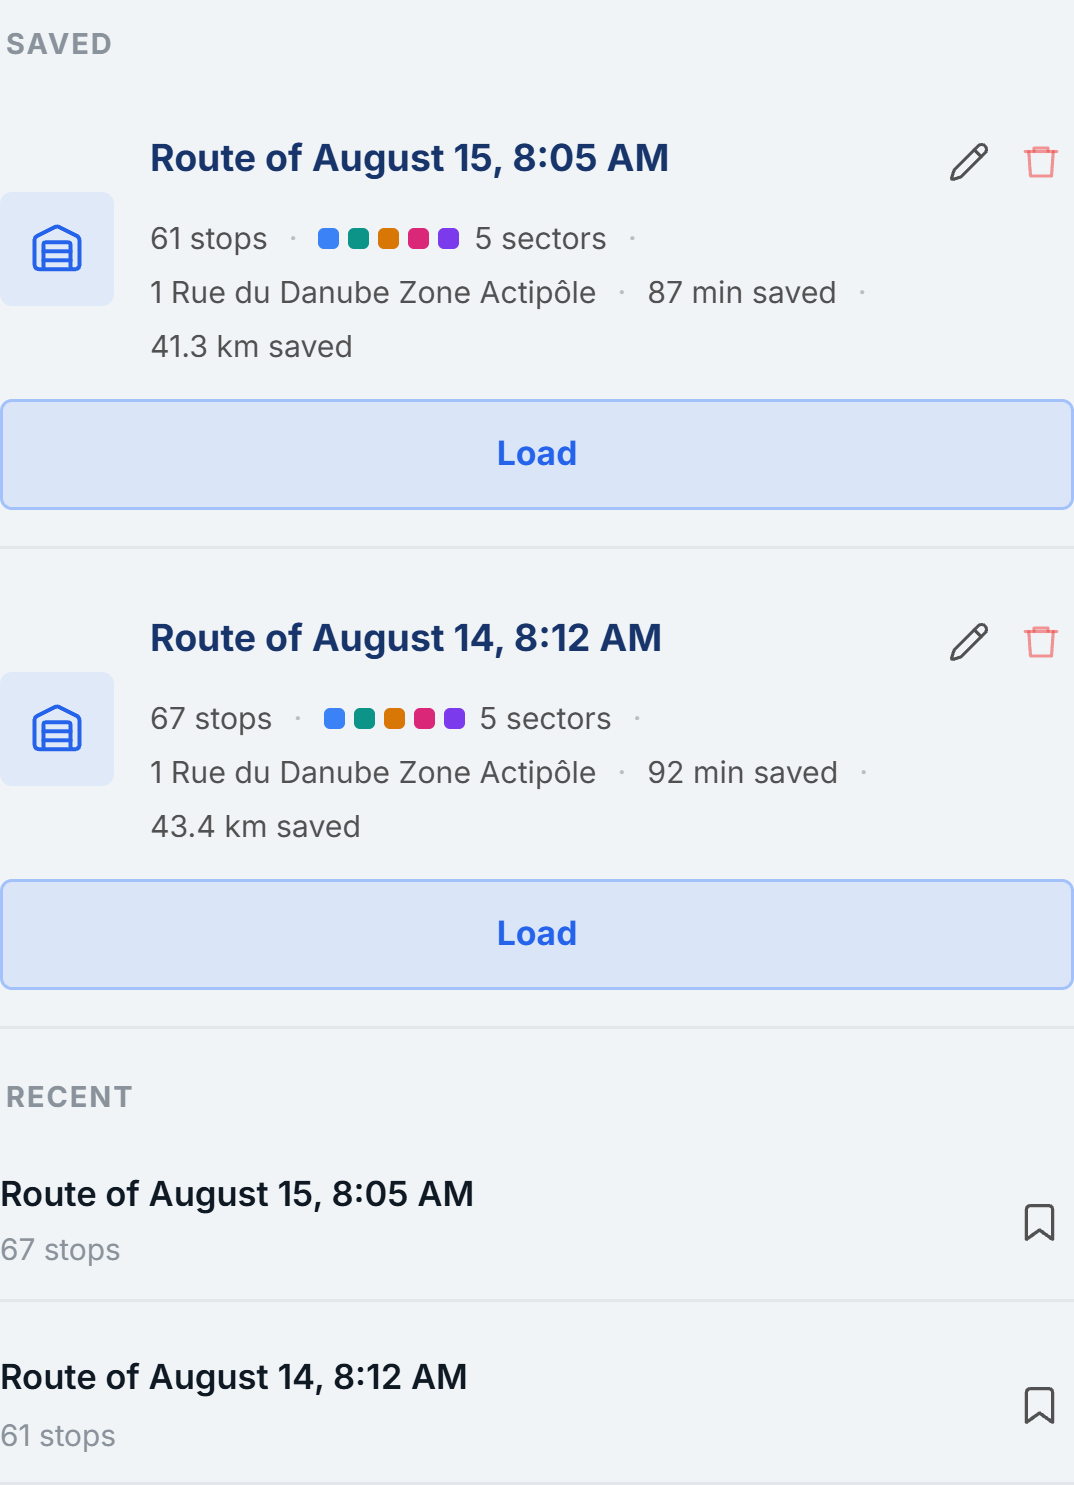
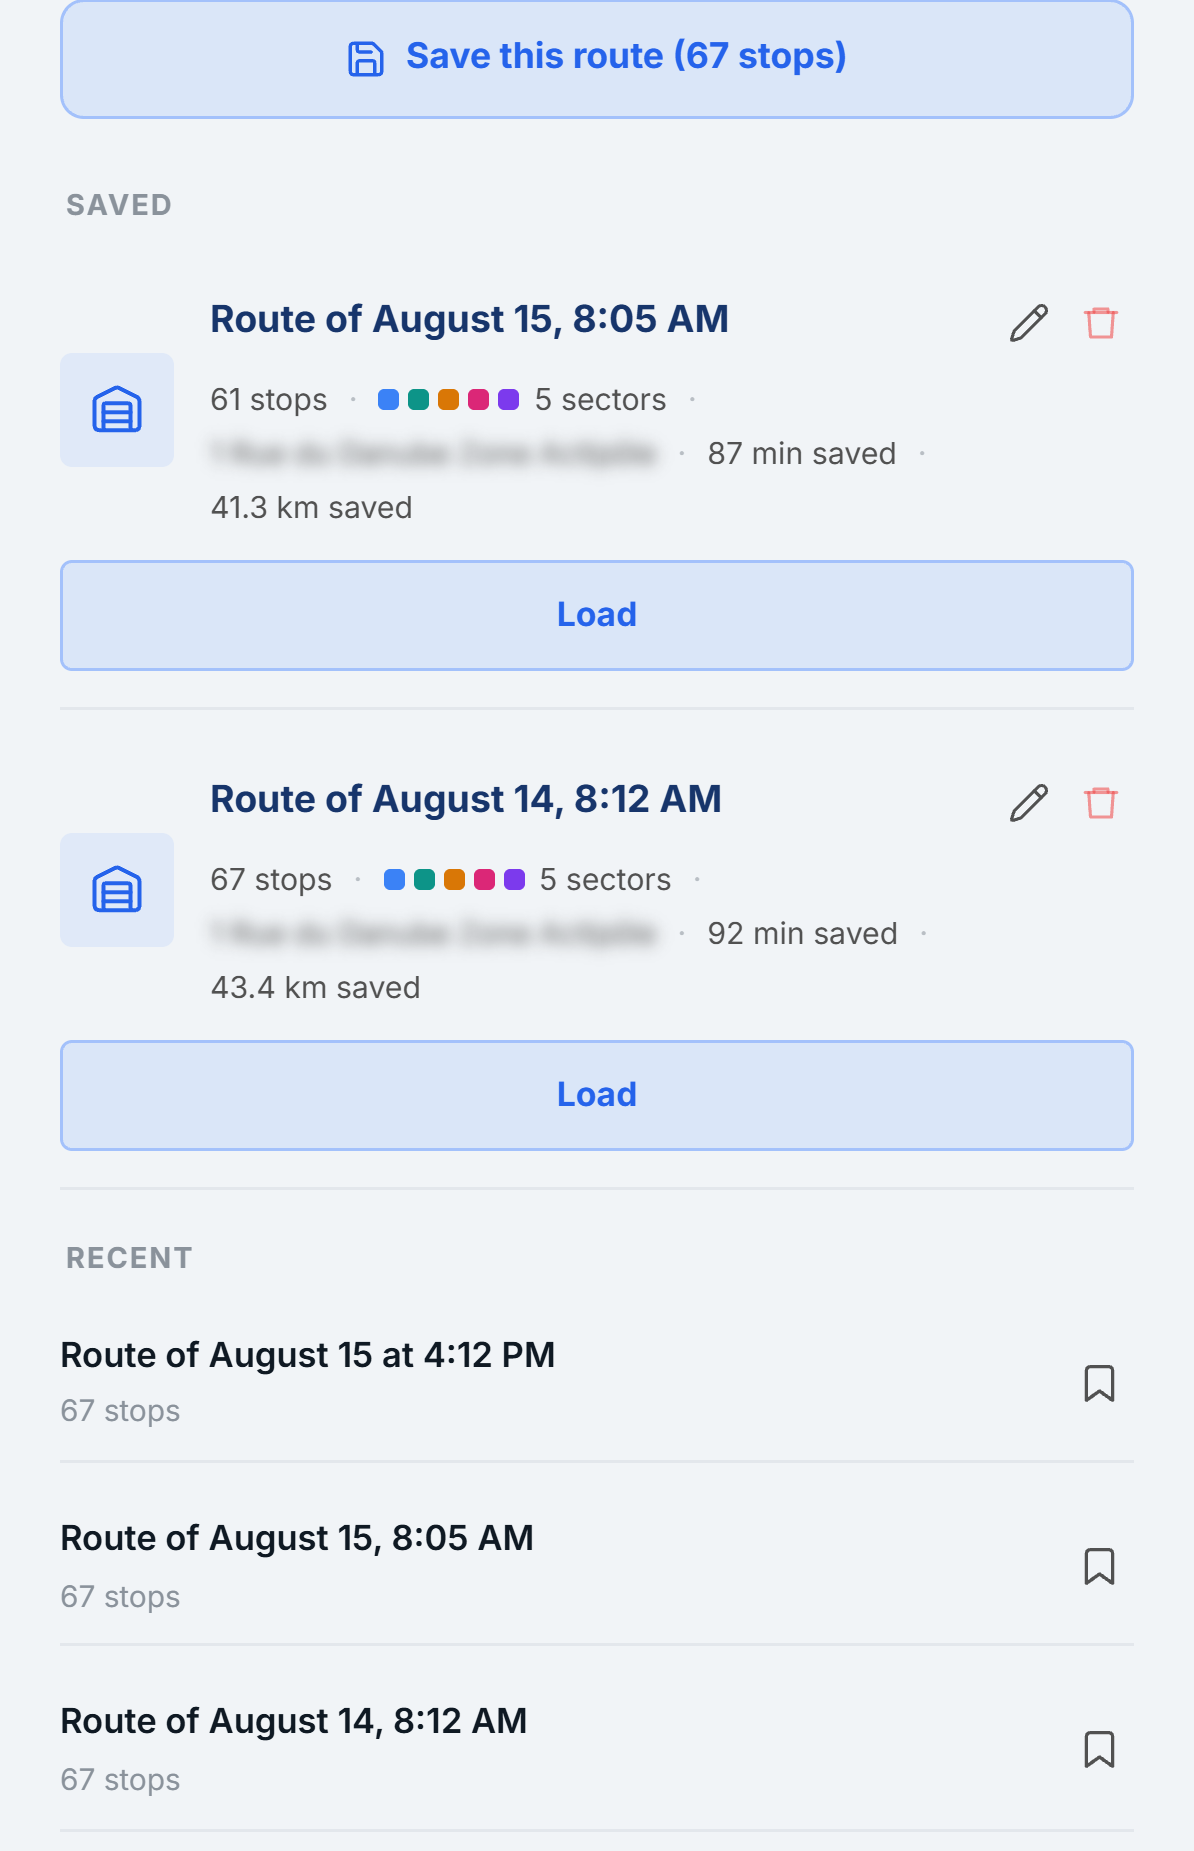
chore(site): captures anglaises floutees, carte des gestes recadree
Les captures anglaises portaient les memes adresses de livraison que les
francaises, sans le flou pose au commit precedent : elles sont toutes
reprises, l'application passee en anglais et les tournees renommees.

La carte de l'ecran des trois gestes se cadre desormais sur les seuls
arrets. Le depot est a quinze kilometres au nord-est : le faire entrer
dans le cadre reduisait la tournee entiere a un tas de marqueurs
illisible. Le trace qui part vers lui sort du cadre, c'est voulu.

« Prochaine destination » recoit un recadrage dedie plutot qu'un
rognage par CSS, qui coupait la fiche en deux. Les cotes de la vue des
cumuls sont rognes pour sortir le point d'interrogation d'aide.

diff --git a/index.html b/index.html
@@ -1174,7 +1174,7 @@
           <h3 class="bloc-titre" data-i18n="bloc.semaine.titre">Sur une semaine de tournées</h3>
           <div class="bloc-shot">
             <img src="./img/captures/cumul.png" data-src-i18n="./img/captures/cumul.png"
-                 width="1074" height="318"
+                 width="968" height="318"
                  data-i18n-alt="bloc.semaine.alt" alt="Écran ATEQO : 7 h 59 gagnées, 240 km et 29 € de carburant économisés sur 5 tournées" />
           </div>
           <p class="bloc-texte" data-i18n="bloc.semaine.bulle">Presque une journée récupérée chaque semaine.</p>
@@ -1247,7 +1247,7 @@
                 <!-- La carte entiere, comme demande : c'est la vue que le
                      visiteur retrouvera en grand deux ecrans plus loin. Pas de
                      version anglaise, elle ne porte aucun texte d'interface. -->
-                <img src="./img/captures/itineraire_optimise.jpg" width="2040" height="1292"
+                <img src="./img/captures/itineraire_optimise.jpg" width="2040" height="1404"
                      data-i18n-alt="etape.2.alt" alt="Carte ATEQO : la tournée optimisée, arrêts numérotés" loading="lazy" />
               </div>
               <p data-i18n="etape.2.texte">L'ordre le plus court sur les routes réelles. Un clic, quelques secondes.</p>
@@ -1256,8 +1256,10 @@
               <span class="etape-num" aria-hidden="true">3</span>
               <h3 data-i18n="etape.3.titre">Livre</h3>
               <div class="etape-visuel">
-                <img class="cadre-haut" src="./img/captures/navigation.png" data-src-i18n="./img/captures/navigation.png"
-                     width="750" height="1534"
+                <!-- Recadrage dedie : la fiche « Prochaine destination » entiere,
+                     sans l'en-tete de l'application qui la sortait du cadre. -->
+                <img class="cadre-haut" src="./img/captures/navigation_vignette.png" data-src-i18n="./img/captures/navigation_vignette.png"
+                     width="1200" height="828"
                      data-i18n-alt="etape.3.alt" alt="Écran ATEQO : la destination recommandée et les arrêts les plus proches" loading="lazy" />
               </div>
               <p data-i18n="etape.3.texte">Navigation adaptative : la destination recommandée à chaque arrêt, ou celui que tu choisis sur la carte.</p>
@@ -1291,7 +1293,7 @@
           <h3 class="bloc-titre" data-i18n="bloc.circuits.titre">Carnet et circuits récurrents</h3>
           <div class="bloc-shot">
             <img src="./img/captures/circuits.png" data-src-i18n="./img/captures/circuits.png"
-                 width="1074" height="1485"
+                 width="1194" height="1851"
                  data-i18n-alt="bloc.circuits.alt" alt="Écran ATEQO : deux tournées enregistrées, avec leurs secteurs et leurs gains" loading="lazy" />
           </div>
           <p class="bloc-texte" data-i18n="bloc.circuits.bulle">Ta tournée d'hier, rechargée en un clic.</p>
@@ -1338,7 +1340,7 @@
         <figure class="viz bloc" style="left:52%;top:24%;width:min(680px,42vw,72vh)">
           <h3 class="bloc-titre" data-i18n="bloc.reel.titre">Des rues, pas des lignes droites</h3>
           <div class="bloc-shot">
-            <img src="./img/captures/itineraire_optimise.jpg" width="2040" height="1292"
+            <img src="./img/captures/itineraire_optimise.jpg" width="2040" height="1404"
                  data-i18n-alt="bloc.reel.alt" alt="Carte ATEQO : l'itinéraire optimisé tracé sur les routes réelles" loading="lazy" />
           </div>
           <p class="bloc-texte" data-i18n="bloc.reel.bulle">L'ordre qui te fait vraiment gagner du temps.</p>
@@ -1414,7 +1416,7 @@
           <h3 class="bloc-titre" data-i18n="bloc.replanif.titre">Colis non livrés</h3>
           <div class="bloc-shot">
             <img src="./img/captures/replanifier.png" data-src-i18n="./img/captures/replanifier.png"
-                 width="1062" height="1356"
+                 width="1194" height="1356"
                  data-i18n-alt="bloc.replanif.alt" alt="Écran ATEQO : les livraisons à replanifier, avec leur date de report" />
           </div>
           <p class="bloc-texte" data-i18n="bloc.replanif.bulle">Client absent ? Reprogrammé, et rappelé le jour venu.</p>
